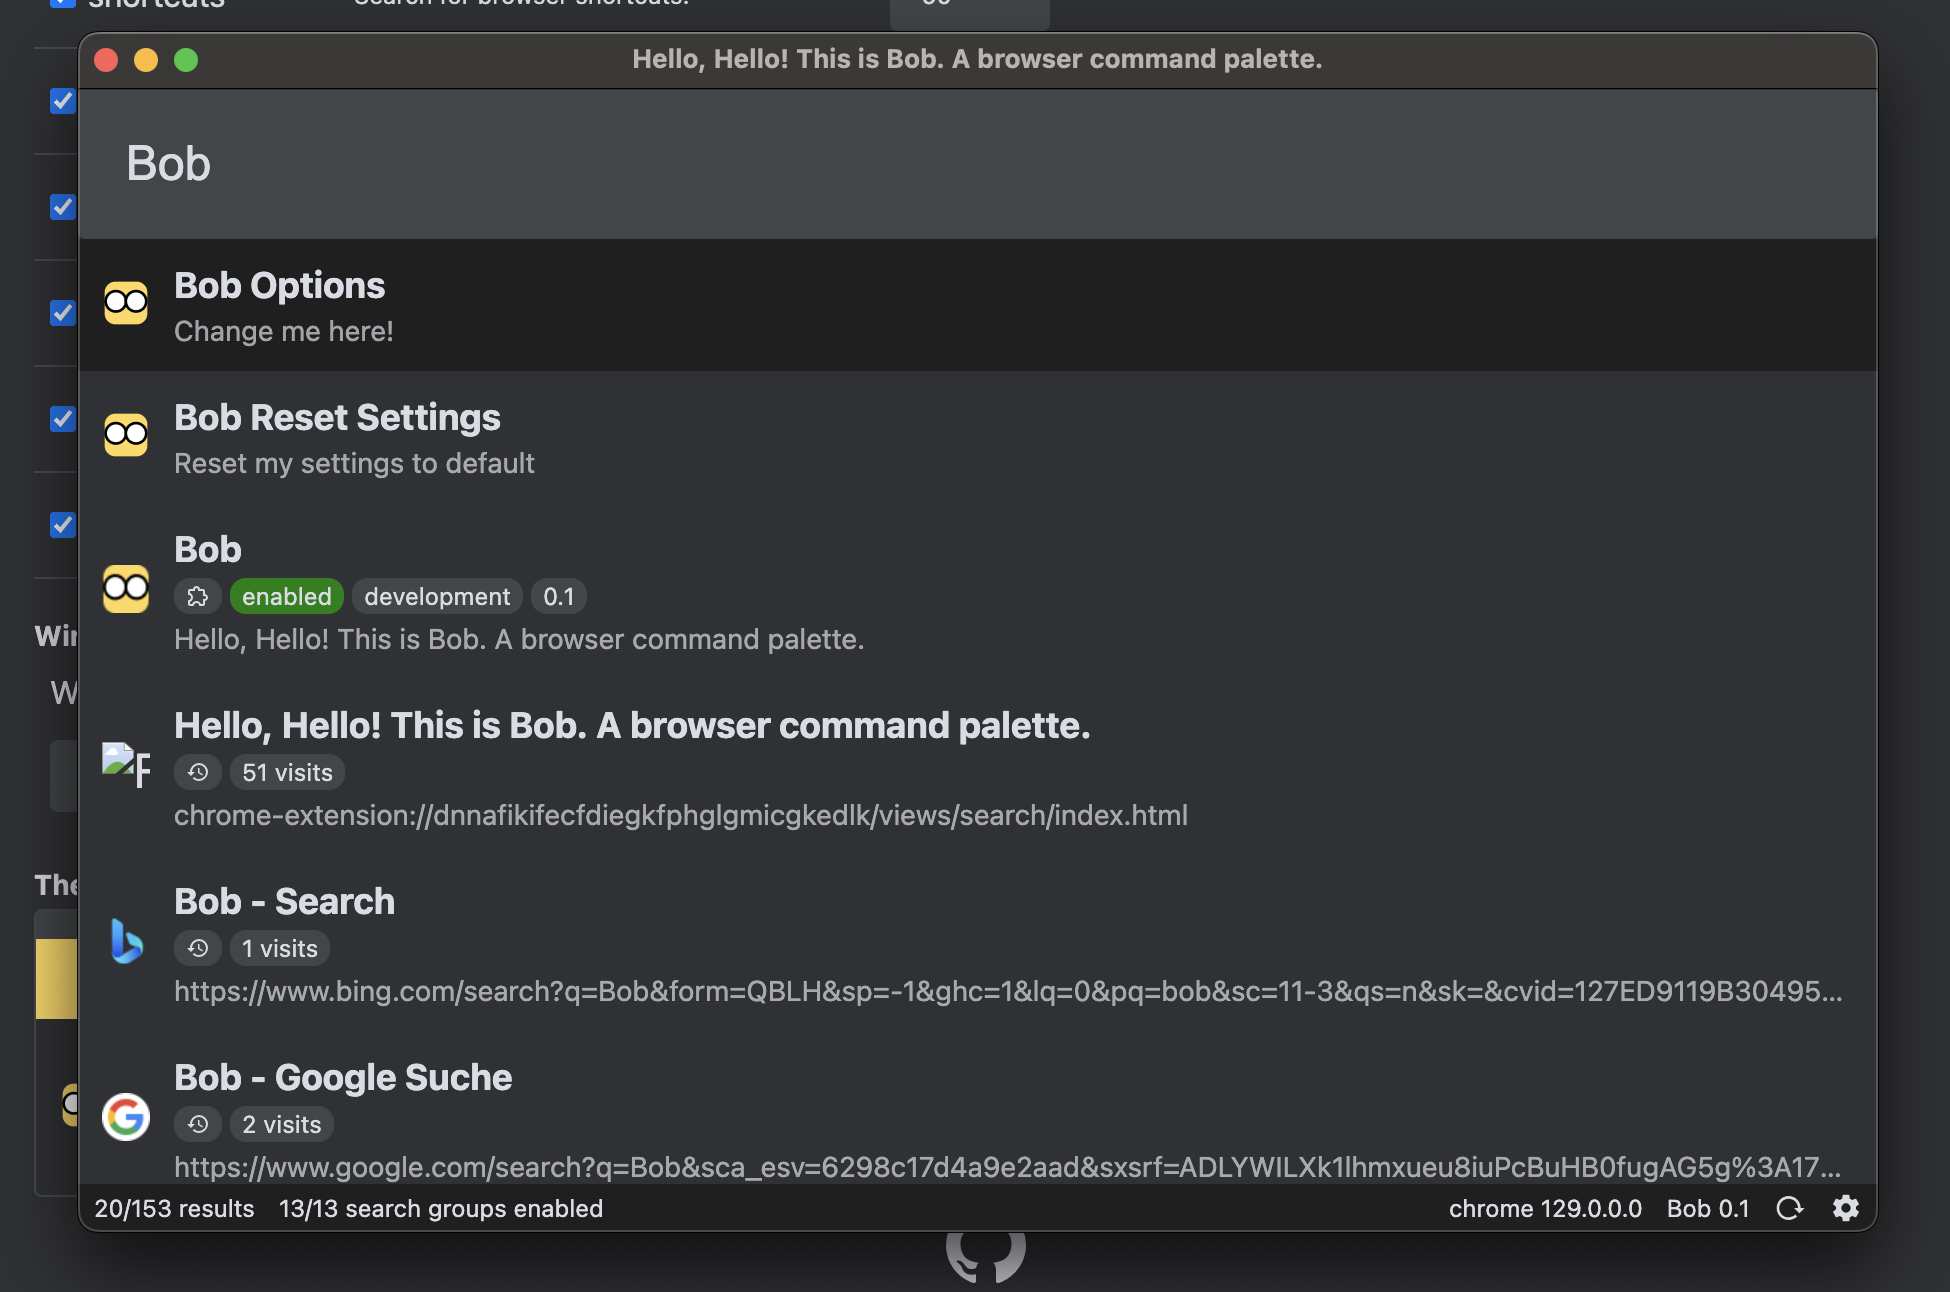
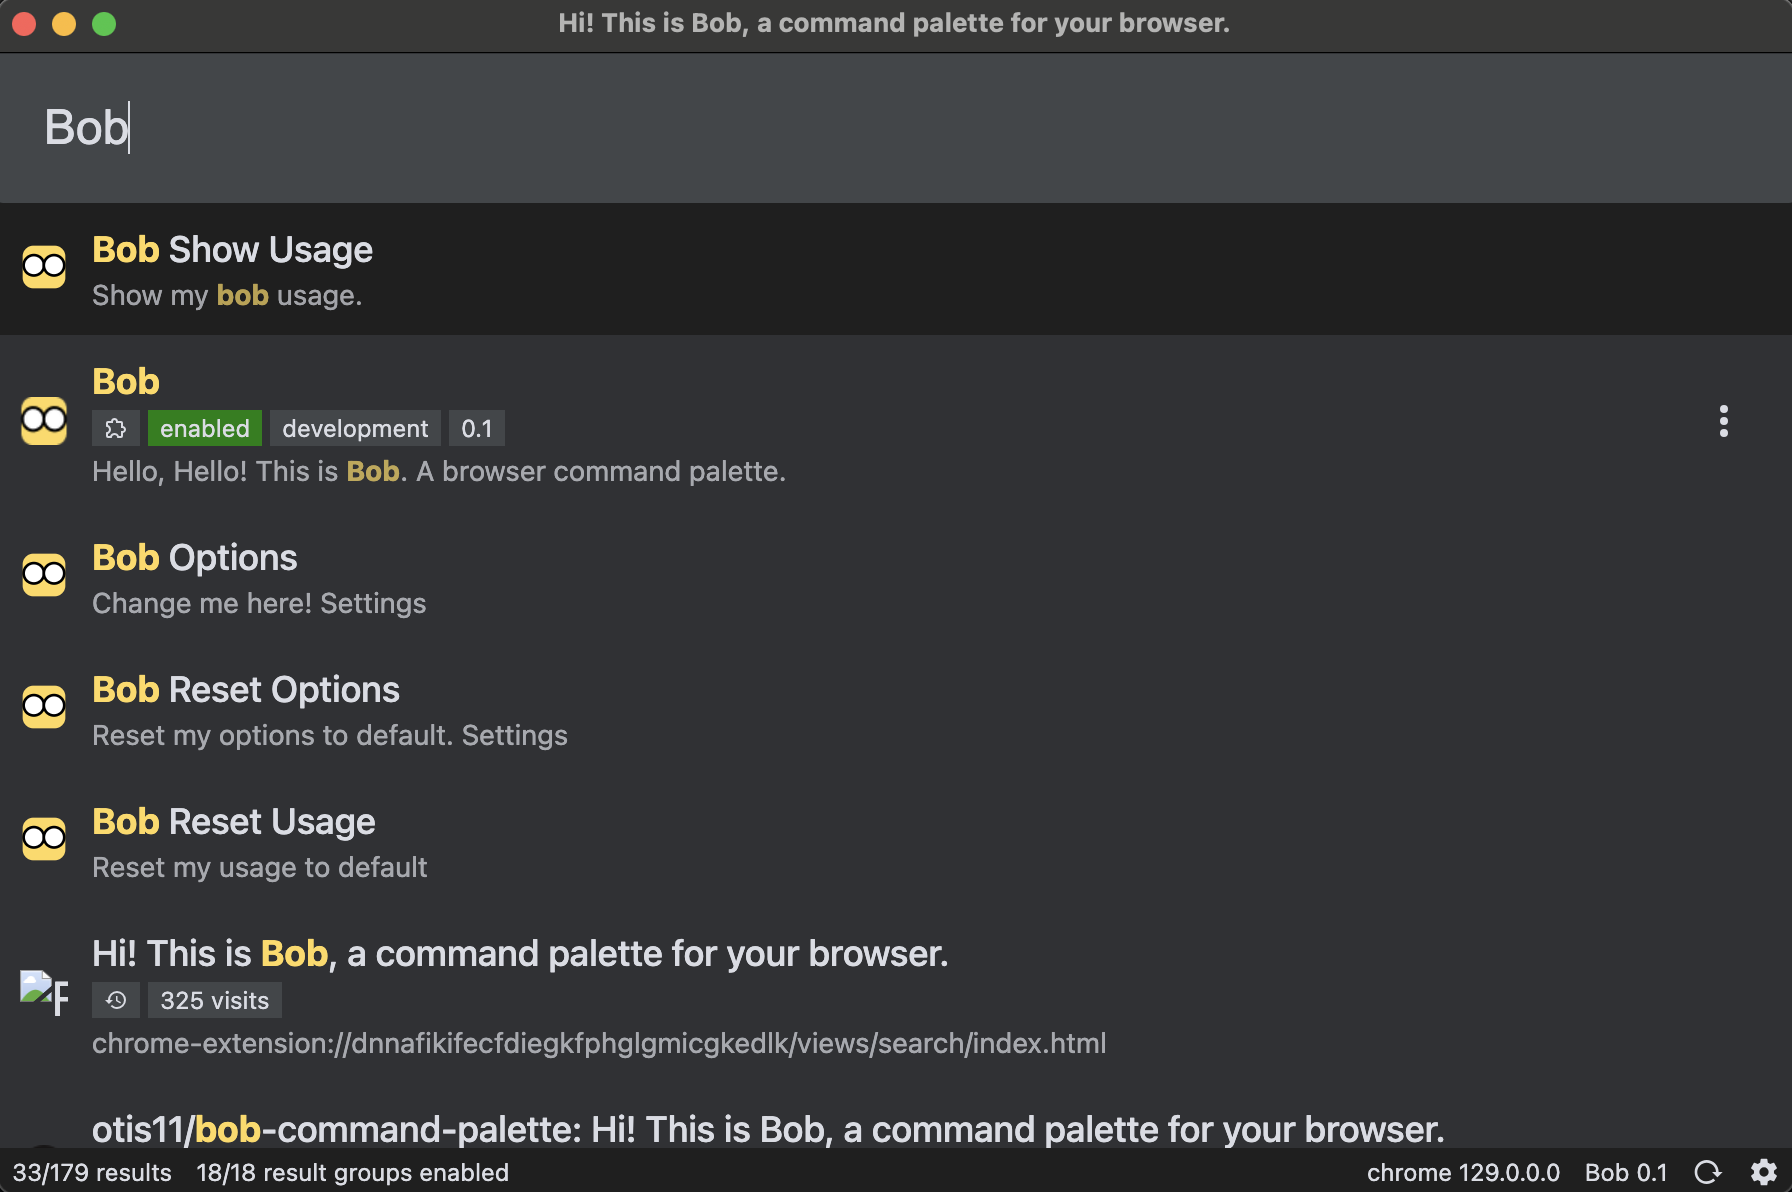
feat: add simple website and update bob screenshots

diff --git a/index.html b/index.html
@@ -1,0 +1,22 @@
+<!DOCTYPE html>
+<html lang="en" data-theme="dark">
+<head>
+    <meta charset="UTF-8">
+    <meta name="viewport" content="width=device-width, initial-scale=1.0">
+    <title>Hi! This is Bob, a command palette for your browser.</title>
+    <link rel="stylesheet" href="./src/themes/dark.css">
+    <link rel="stylesheet" href="./src/views/global.css">
+    <link rel="stylesheet" href="./src/website.css">
+    <link rel="icon" href="./public/chrome/icons/bob-icon-32x32.png">
+    <meta title="description" content="Hi! This is Bob, a command palette for your browser.">
+</head>
+<body>
+    <h1>Hi! This is Bob, a command palette for your browser.</h1>
+    <div class="links">
+        <a href="#">Chrome</a>
+        <a href="#">Firefox</a>
+        <a href="https://github.com/otis11/bob-command-palette">GitHub</a>
+    </div>
+    <img src="./src/assets/bob-screenshot.png" class="thumb" alt="Screenshot of Bob">
+</body>
+</html>

diff --git a/src/website.css b/src/website.css
@@ -1,0 +1,48 @@
+* {
+	margin: 0;
+	padding: 0;
+	box-sizing: border-box;
+}
+
+h1 {
+	font-size: 2rem;
+	text-align: center;
+}
+
+body {
+	padding: 24px;
+	display: flex;
+	flex-direction: column;
+	justify-content: center;
+}
+
+html,
+body {
+	height: 100%;
+	width: 100%;
+}
+
+.links {
+	padding: 32px;
+}
+
+.links a {
+	color: var(--bob-color-primary);
+}
+
+.thumb {
+	height: auto;
+	max-width: 640px;
+	width: 100%;
+	margin: 0 auto;
+	box-shadow: 0 16px 70px rgba(0, 0, 0, 1), 0 24px 100px
+		var(--bob-color-primary);
+}
+
+.links {
+	display: flex;
+	gap: 20px;
+	font-size: 1.125rem;
+	justify-content: center;
+	align-items: center;
+}

diff --git a/vite.config.website.ts b/vite.config.website.ts
@@ -1,0 +1,8 @@
+import { defineConfig } from "vite";
+export default defineConfig({
+	base: "./",
+	build: {
+		outDir: "./dist/website",
+		emptyOutDir: false,
+	},
+});

diff --git a/README.md b/README.md
@@ -9,4 +9,4 @@ Bob's results are organized into result groups with linked permissions. For inst
 - [Result Groups](./docs/result-groups.md)
 - [Themes](./docs/themes.md)
 
-![Bob Screenshot](./src/assets/bob-screenshot.png)
+![Bob Screenshot](./src/assets/bob-screenshot-browser.png)
